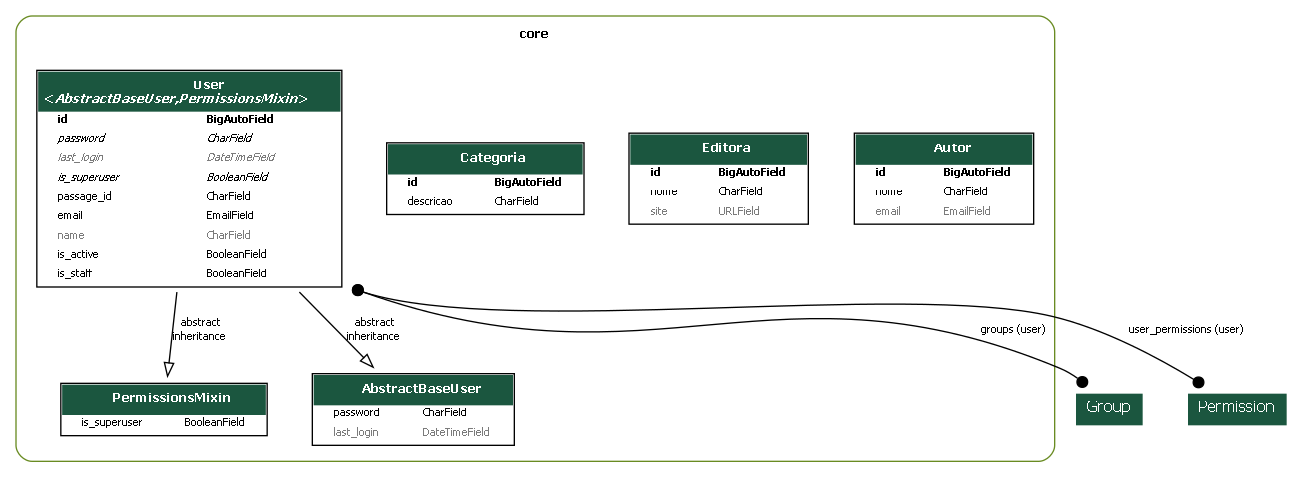
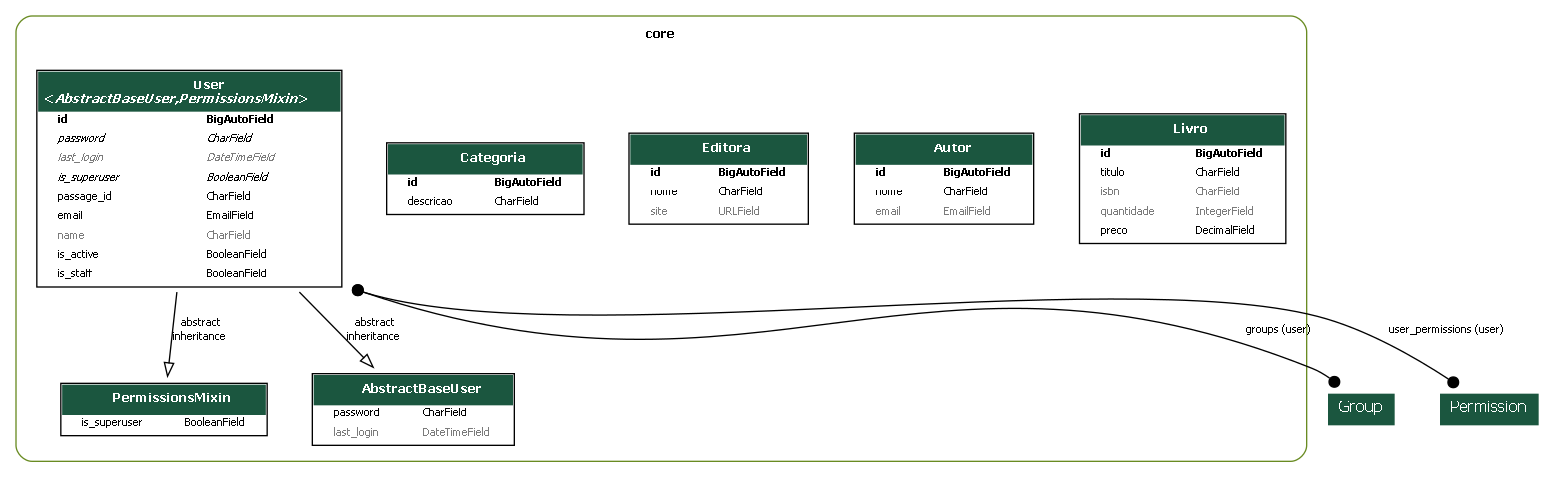
feat: criação da entidade para Livro

diff --git a/core/migrations/0008_livro.py b/core/migrations/0008_livro.py
@@ -1,0 +1,23 @@
+# Generated by Django 5.1.7 on 2025-10-21 17:19
+
+from django.db import migrations, models
+
+
+class Migration(migrations.Migration):
+
+    dependencies = [
+        ('core', '0007_autor'),
+    ]
+
+    operations = [
+        migrations.CreateModel(
+            name='Livro',
+            fields=[
+                ('id', models.BigAutoField(auto_created=True, primary_key=True, serialize=False, verbose_name='ID')),
+                ('titulo', models.CharField(max_length=255)),
+                ('isbn', models.CharField(blank=True, max_length=32, null=True)),
+                ('quantidade', models.IntegerField(blank=True, default=0, null=True)),
+                ('preco', models.DecimalField(decimal_places=2, default=0, max_digits=7)),
+            ],
+        ),
+    ]

diff --git a/app/urls.py b/app/urls.py
@@ -7,12 +7,13 @@ from drf_spectacular.views import (
 )
 from rest_framework.routers import DefaultRouter
 
-from core.views import AutorViewSet, CategoriaViewSet, EditoraViewSet, UserViewSet
+from core.views import AutorViewSet, CategoriaViewSet, EditoraViewSet, LivroViewSet, UserViewSet
 
 router = DefaultRouter()
 
 router.register(r'categorias', CategoriaViewSet)
 router.register(r'usuarios', UserViewSet, basename='usuarios')
+router.register(r'livros', LivroViewSet)
 router.register(r'editoras', EditoraViewSet)
 router.register(r'autores', AutorViewSet)
 

diff --git a/core/models/livro.py b/core/models/livro.py
@@ -1,0 +1,11 @@
+from django.db import models
+
+
+class Livro(models.Model):
+    titulo = models.CharField(max_length=255)
+    isbn = models.CharField(max_length=32, null=True, blank=True)
+    quantidade = models.IntegerField(default=0, null=True, blank=True)
+    preco = models.DecimalField(max_digits=7, decimal_places=2, default=0)
+
+    def __str__(self):
+        return f'({self.id}) {self.titulo} ({self.quantidade})'

diff --git a/core/views/livro.py b/core/views/livro.py
@@ -1,0 +1,9 @@
+from rest_framework.viewsets import ModelViewSet
+
+from core.models import Livro
+from core.serializers import LivroSerializer
+
+
+class LivroViewSet(ModelViewSet):
+    queryset = Livro.objects.all()
+    serializer_class = LivroSerializer

diff --git a/core/serializers/livro.py b/core/serializers/livro.py
@@ -1,0 +1,9 @@
+from rest_framework.serializers import ModelSerializer
+
+from core.models import Livro
+
+
+class LivroSerializer(ModelSerializer):
+    class Meta:
+        model = Livro
+        fields = '__all__'

diff --git a/core/admin.py b/core/admin.py
@@ -55,3 +55,4 @@ admin.site.register(models.User, UserAdmin)
 admin.site.register(models.Categoria)
 admin.site.register(models.Editora)
 admin.site.register(models.Autor)
+admin.site.register(models.Livro)

diff --git a/core/serializers/__init__.py b/core/serializers/__init__.py
@@ -2,3 +2,4 @@ from .user import UserSerializer
 from .categoria import CategoriaSerializer
 from .editora import EditoraSerializer
 from .autor import AutorSerializer
+from .livro import LivroSerializer

diff --git a/core/views/__init__.py b/core/views/__init__.py
@@ -2,3 +2,4 @@ from .user import UserViewSet
 from .categoria import CategoriaViewSet
 from .editora import EditoraViewSet
 from .autor import AutorViewSet
+from .livro import LivroViewSet

diff --git a/core/models/__init__.py b/core/models/__init__.py
@@ -2,3 +2,4 @@ from .user import User
 from .categoria import Categoria
 from .editora import Editora
 from .autor import Autor
+from .livro import Livro
